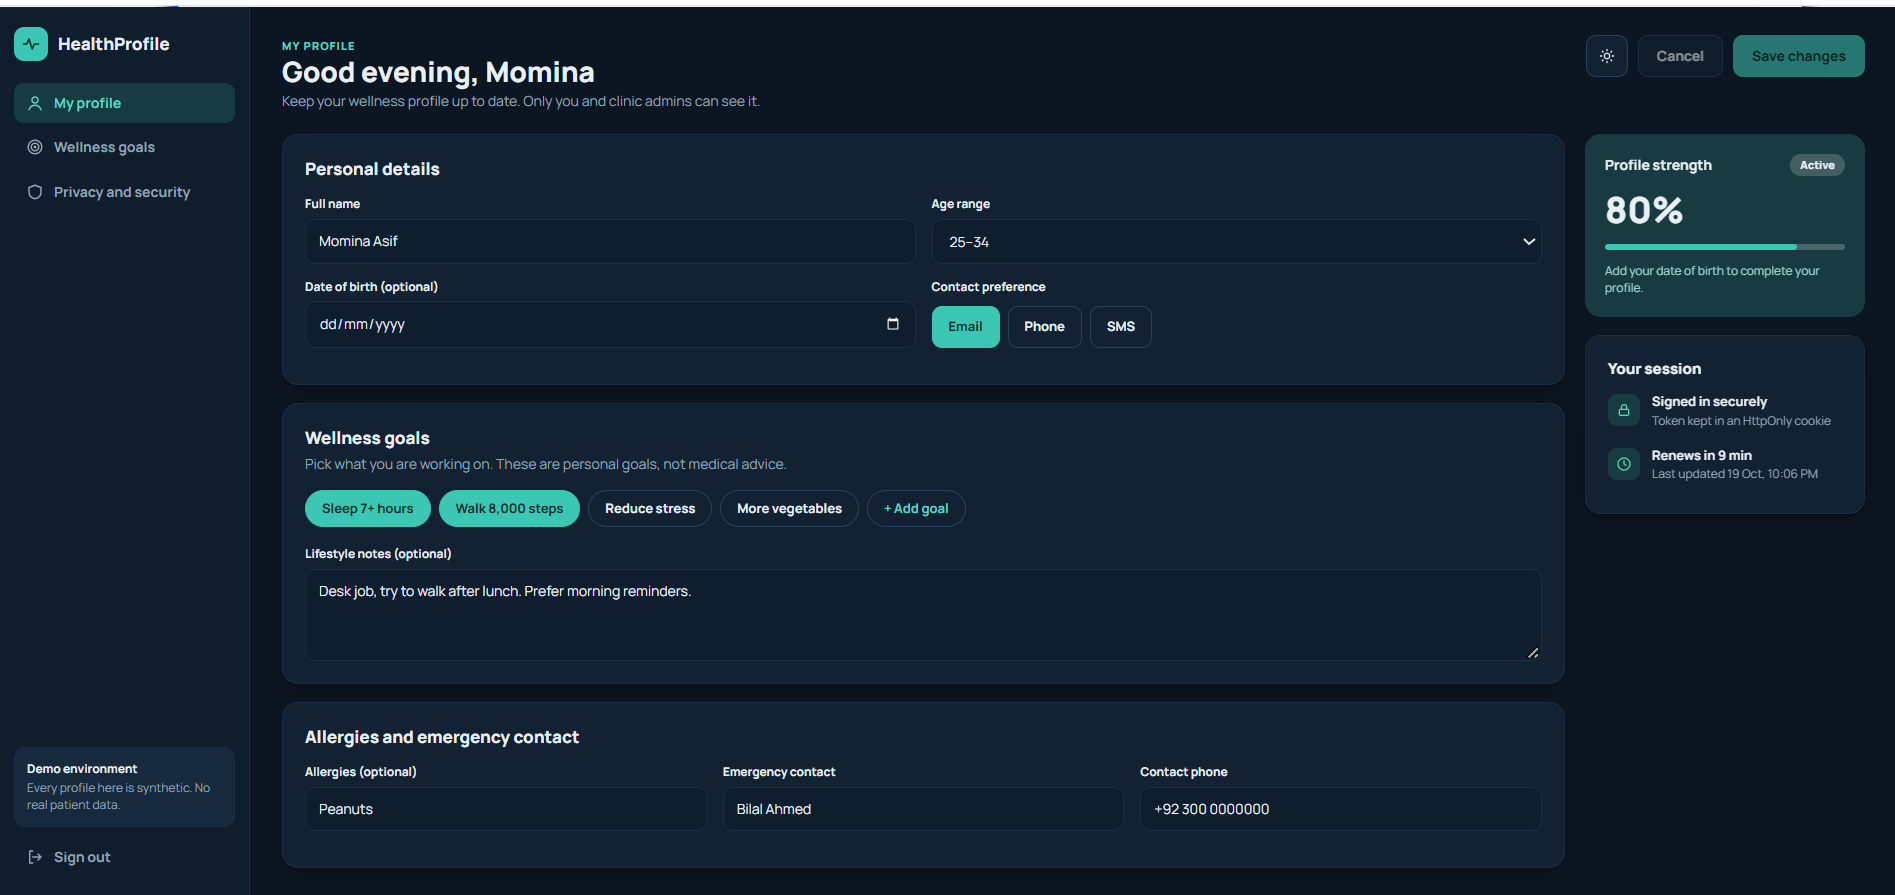
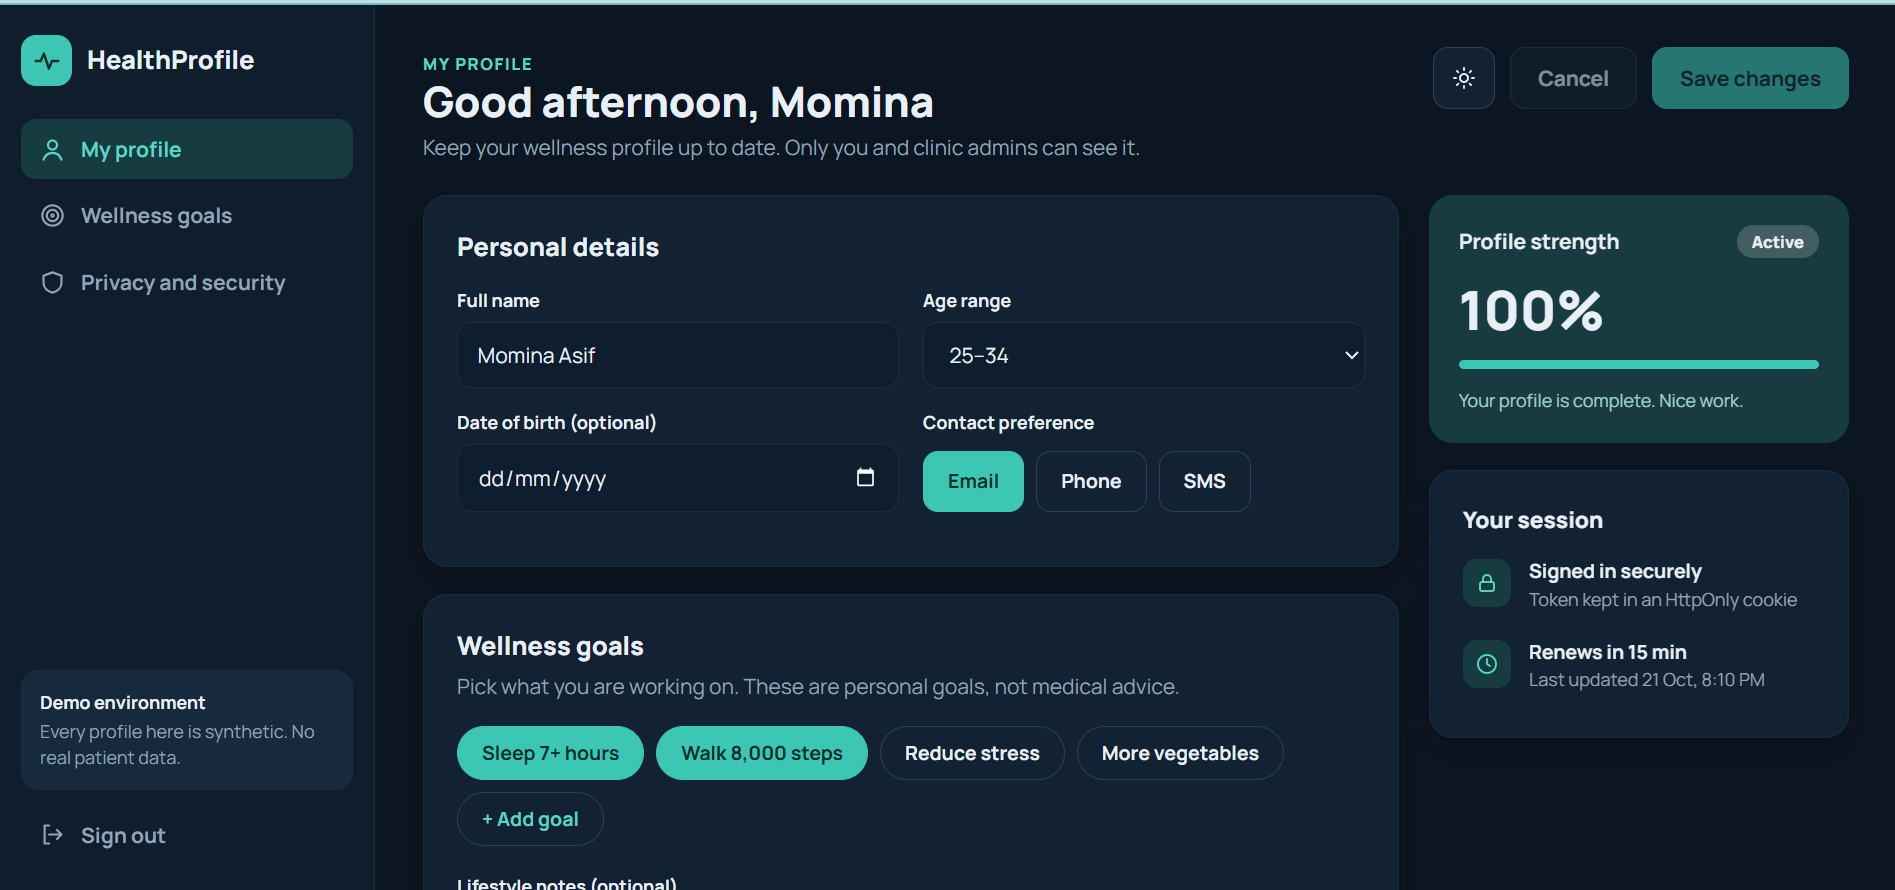
docs: update Week 1 screenshots and test count after review fixes

diff --git a/docs/ai-workflow.md b/docs/ai-workflow.md
@@ -167,7 +167,7 @@ OUTPUT
 ## 7. Verification
 
 - `python manage.py check`: no issues
-- `python -m pytest -v`: **51 passed** (screenshot in README)
+- `python -m pytest -v`: **56 passed** (screenshot in README)
 - `npm run lint`: no errors · `npm run build`: compiled successfully, all 8 routes built
 - Manual click-through of every page (signup, login, profile, admin login, dashboard, detail) in light and dark mode: everything worked. The member access token expires after 15 minutes and the admin session after 30 minutes of inactivity, which forced a fresh sign-in exactly as designed.
 - **EXPLAIN** (README): for `status='active'` (about 89% of rows) Postgres chose a sequential scan, because reading the whole small table is cheaper. For the selective `status='deactivated'` filter it used `profile_status_created_idx`. The index helps selective filters, not the common case.
